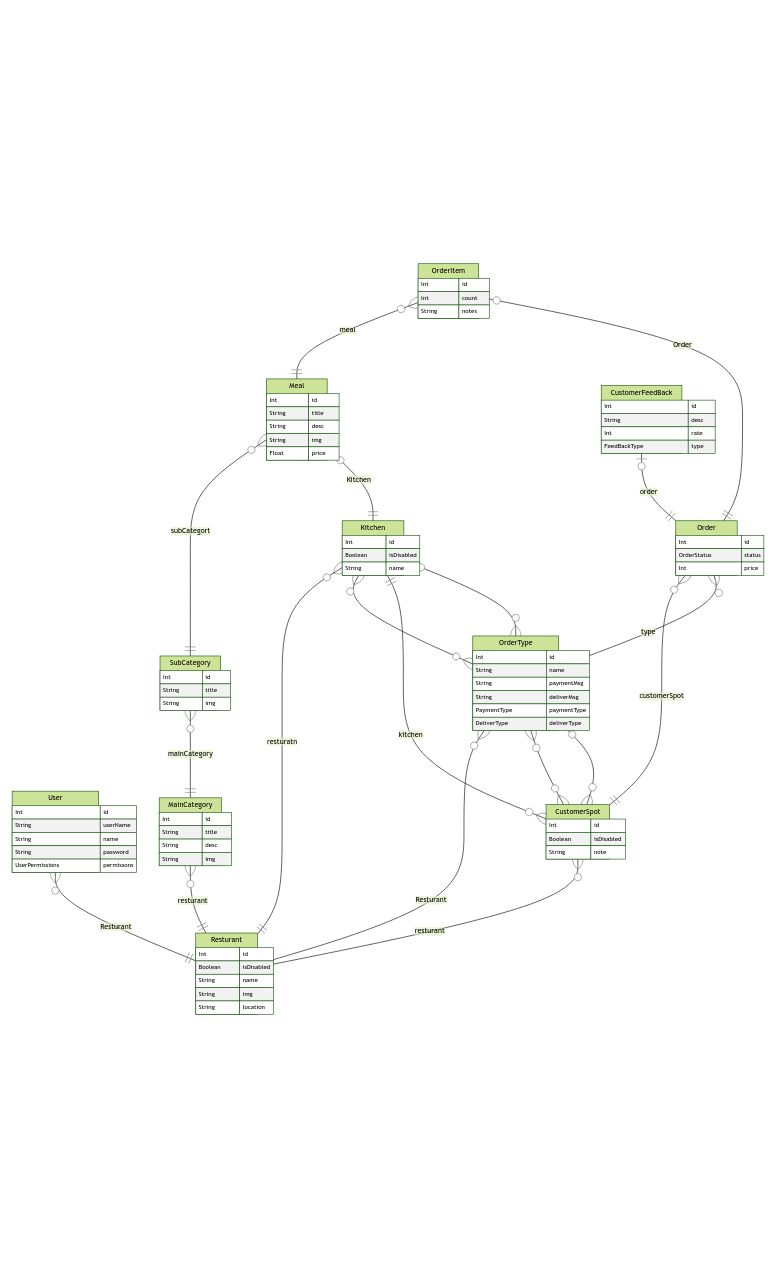
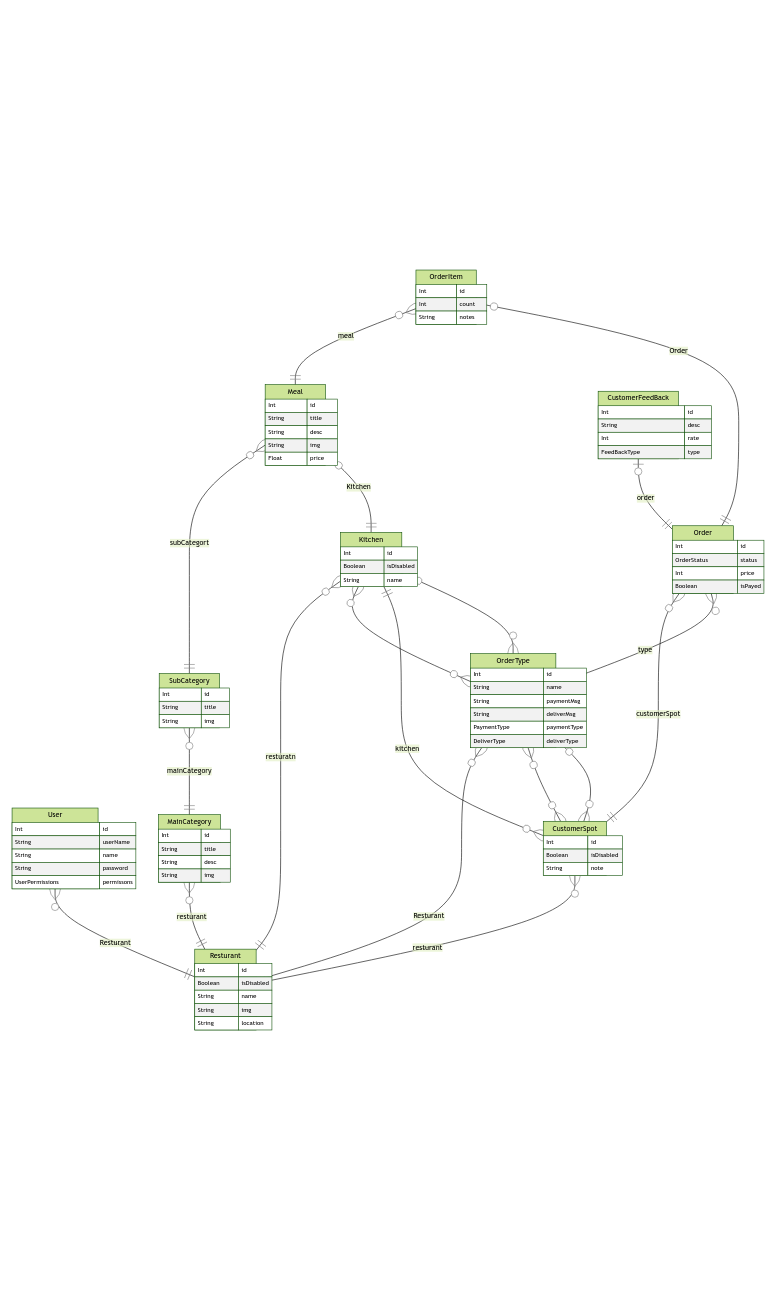
add order admin add order controller

diff --git a/src/order/order.service.ts b/src/order/order.service.ts
@@ -1,6 +1,12 @@
 import { Injectable } from '@nestjs/common';
 import { JwtService } from '@nestjs/jwt';
-import { OrderStatus } from '@prisma/client';
+import {
+  CustomerSpot,
+  Order,
+  OrderStatus,
+  OrderType,
+  PaymentType,
+} from '@prisma/client';
 import { JwtType } from 'src/auth/jwt-auth.guard';
 import { PrismaService } from 'src/prisma.service';
 import { CreateCustomerFeedBackDto } from './dto/create-feedback.dto';
@@ -27,12 +33,10 @@ export class OrderService {
     });
 
     return {
-      access_token: this.jwtService.sign(
-        {
-          ...res,
-          type: JwtType.order,
-        }
-      ),
+      access_token: this.jwtService.sign({
+        ...res,
+        type: JwtType.order,
+      }),
     };
   }
 
@@ -47,12 +51,50 @@ export class OrderService {
     });
   }
 
-  async addCustomerFeedback(id: number, feedback: CreateCustomerFeedBackDto) {
+  async payed(id: number) {
+    const order = await this.getOrderById(id);
+    order.type.paymentType;
+    let nextStatus: OrderStatus;
+    if (order.type.paymentType == PaymentType.beforeTakeOrder) {
+      nextStatus = OrderStatus.WaitInKitchen;
+    } else if (order.type.paymentType == PaymentType.afterTakeOrder) {
+      nextStatus = OrderStatus.Done;
+    }
     await this.prisma.order.update({
       data: {
-        customerFeedBack: {
-          create: feedback,
-        },
+        isPayed: true,
+        status: nextStatus,
+      },
+      where: {
+        id: id,
+      },
+    });
+  }
+
+  async getOrderById(id: number): Promise<GetOrderDto> {
+    return this.prisma.order.findUnique({
+      where: {
+        id,
+      },
+      include: {
+        type: true,
+        customerSpot: true,
+      },
+    });
+  }
+
+  async addCustomerFeedbackAndMarkAsDone(
+    id: number,
+    feedback: CreateCustomerFeedBackDto,
+  ) {
+    await this.prisma.order.update({
+      data: {
+        customerFeedBack: feedback
+          ? {
+              create: feedback,
+            }
+          : undefined,
+        status: OrderStatus.Done,
       },
       where: {
         id: id,
@@ -93,3 +135,8 @@ export class OrderService {
     return price;
   }
 }
+
+export type GetOrderDto = Order & {
+  customerSpot: CustomerSpot;
+  type: OrderType;
+};

diff --git a/src/order/order-admin.controller.ts b/src/order/order-admin.controller.ts
@@ -1,0 +1,62 @@
+import { Body, Controller, Param, Post, UseGuards } from '@nestjs/common';
+import { OrderStatus, UserPermissions } from '@prisma/client';
+import { JwtAuthGuard } from 'src/auth/jwt-auth.guard';
+import { PermissionGuard } from 'src/auth/permission.gurds';
+import { OrderService } from './order.service';
+//TODO here we need extra validation for checking if this order belongs to this user
+//TODO need work wuth a websocket so we return this to the customer
+@Controller('order/admin')
+@UseGuards(new JwtAuthGuard())
+export class OrderAdminController {
+  constructor(private orderService: OrderService) {}
+  
+  @Post('pay/:orderId')
+  @UseGuards(
+    new PermissionGuard(UserPermissions.ResturantAdmin, UserPermissions.Cacher),
+  )
+  customerPayToCasher(@Param('orderId') orderId: number) {
+    return this.orderService.payed(orderId);
+  }
+
+  @Post('cooked/:orderId')
+  @UseGuards(
+    new PermissionGuard(
+      UserPermissions.ResturantAdmin,
+      UserPermissions.Kitchen,
+    ),
+  )
+  kitchenDoneCook(@Param('orderId') orderId: number) {
+    return this.orderService.updateStatus(orderId, OrderStatus.DoneByKitchen);
+  }
+
+  @Post('deliver/:orderId')
+  @UseGuards(
+    new PermissionGuard(
+      UserPermissions.ResturantAdmin,
+      UserPermissions.Kitchen,
+    ),
+  )
+  kitchenDeliver(@Param('orderId') orderId: number) {
+    return this.orderService.updateStatus(
+      orderId,
+      OrderStatus.DeliveredByKitchen,
+    );
+  }
+
+  @Post('cancel/:orderId')
+  @UseGuards(
+    new PermissionGuard(
+      UserPermissions.ResturantAdmin,
+      UserPermissions.Kitchen,
+      UserPermissions.Cacher,
+
+    ),
+  )
+  cancelOrder(@Param('orderId') orderId: number,@Body('msg') msg: string) {
+      //TODO return msg to user
+    return this.orderService.updateStatus(
+      orderId,
+      OrderStatus.Canceled,
+    );
+  }
+}

diff --git a/src/order/order.controller.ts b/src/order/order.controller.ts
@@ -1,9 +1,25 @@
-import { Controller } from '@nestjs/common';
+import { Body, Controller, Get, Post, UseGuards } from '@nestjs/common';
+import { OrderStatus } from '@prisma/client';
+import { JwtAuthGuard, OrderJwtAuthGuard } from 'src/auth/jwt-auth.guard';
+import { OrderJwt, Payload } from 'src/auth/payload.decoration';
+import { CreateCustomerFeedBackDto } from './dto/create-feedback.dto';
+import { CreateOrderDto } from './dto/create-order.dto';
+import { OrderService } from './order.service';
 
 @Controller('order')
 export class OrderController {
-    
+  constructor(private orderService: OrderService) {}
+  @Post()
+  createOrder(@Body() body: CreateOrderDto) {
+    return this.orderService.createOrder(body);
+  }
+
+  @Post('done')
+  @UseGuards(new OrderJwtAuthGuard())
+  userComplete(
+    @Body() body: CreateCustomerFeedBackDto | null,
+    @Payload() order: OrderJwt,
+  ) {
+    return this.orderService.addCustomerFeedbackAndMarkAsDone(order.id, body);
+  }  
 }
-
-
-//TODO when user order we should create jwt for this order in dont edit the order except if this jwt vaide

diff --git a/src/auth/payload.decoration.ts b/src/auth/payload.decoration.ts
@@ -1,5 +1,5 @@
 import { createParamDecorator, ExecutionContext } from '@nestjs/common';
-import {  UserPermissions } from '@prisma/client';
+import {  Order, UserPermissions } from '@prisma/client';
 
 export const Payload = createParamDecorator<ExecutionContext>(
   (data: unknown,ctx: ExecutionContext) => {
@@ -18,3 +18,6 @@ export type UserJwt = {
   permissons: UserPermissions[];
   resturantId?: number;
 };
+
+
+export type OrderJwt = Order;
